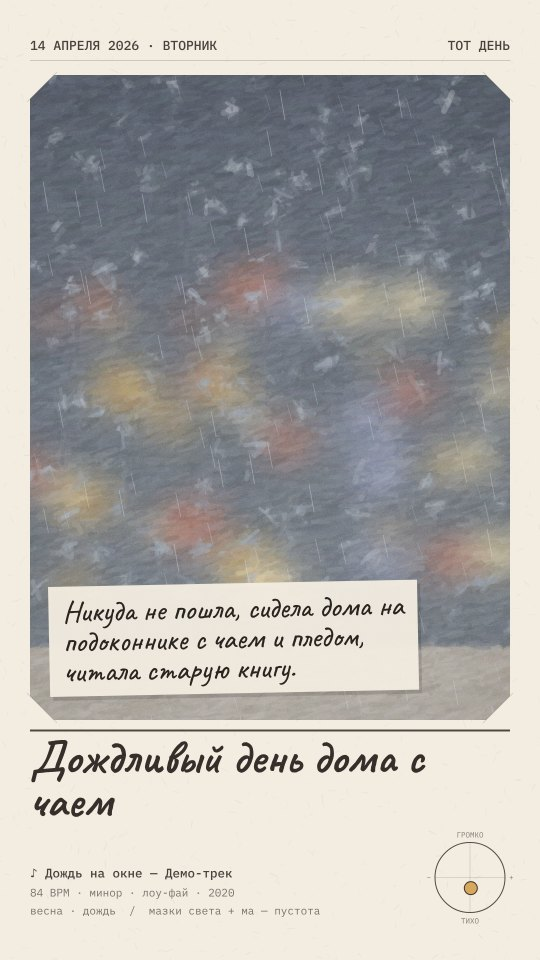
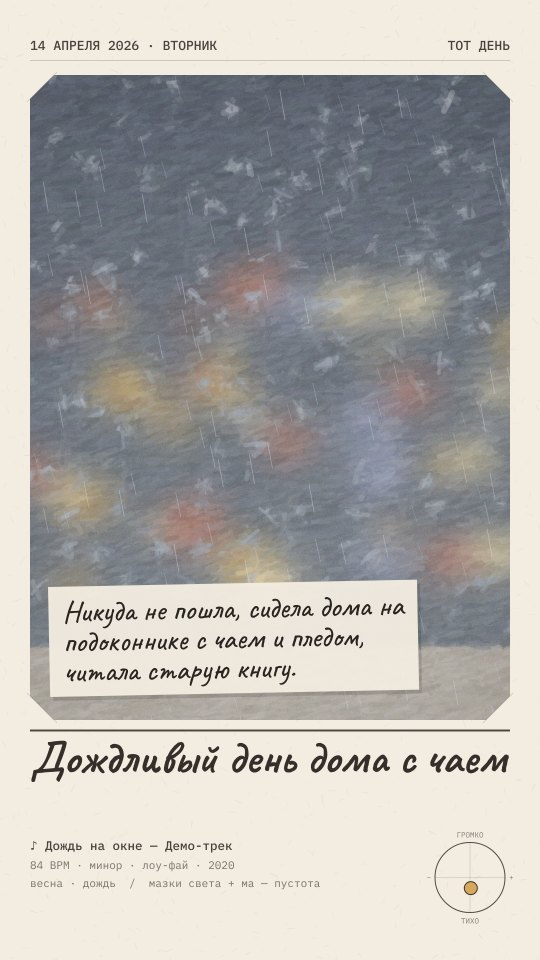
Название папки в одну строку: шрифт уменьшается вместо переноса
- название сначала уменьшается (92 → 66 px), чтобы поместиться в одну строку
- очень длинное (до 7 слов) — две строки того же размера в том же месте;
  однобуквенный предлог не остаётся в конце строки («…шаре / в Каппадокии»)
- строка песни под названием всегда на одной высоте, поэтому лента ровная
- лента и пример дождливого дня пересобраны

Claude-Session: https://claude.ai/code/session_01ExfuirR1niP3PWZ9iqYzHu

Changed region(s): [[0.0593, 0.75, 0.9481, 0.9688]]

diff --git a/js/render.js b/js/render.js
@@ -160,15 +160,34 @@
       g.textAlign = 'left';
       g.fillStyle = rgba(ink, 0.25); g.fillRect(60, 120, W - 120, 1.5);
       // folder title, handwritten, always in the same place
+      // One line whenever it fits: the title shrinks (92 → 66 px) rather than wraps.
+      // A very long title takes two smaller lines in the same space, so the
+      // song line below always stays in the same place on every page.
+      const fontAt = (px) => `700 ${px}px Caveat, cursive`;
       let size = 92;
-      g.font = `700 ${size}px Caveat, cursive`;
-      let lines = wrap(g, day.title, W - 120);
-      while (lines.length > 2 && size > 60) { size -= 6; g.font = `700 ${size}px Caveat, cursive`; lines = wrap(g, day.title, W - 120); }
+      g.font = fontAt(size);
+      while (g.measureText(day.title).width > W - 120 && size > 66) { size -= 2; g.font = fontAt(size); }
+      let lines = [day.title];
+      if (g.measureText(day.title).width > W - 120) {
+        // Two lines; a one-letter preposition never ends a line ("…шаре / в Каппадокии").
+        const wrapTitle = () => {
+          const ls = wrap(g, day.title, W - 120);
+          for (let i = 0; i < ls.length - 1; i++) {
+            const words = ls[i].split(' '), last = words[words.length - 1];
+            if (words.length > 1 && /^[а-яёa-z]{1,2}$/i.test(last)) { ls[i] = words.slice(0, -1).join(' '); ls[i + 1] = last + ' ' + ls[i + 1]; }
+          }
+          return ls;
+        };
+        size = 66; g.font = fontAt(size);
+        lines = wrapTitle();
+        while ((lines.length > 2 || lines.some((l) => g.measureText(l).width > W - 120)) && size > 40) { size -= 2; g.font = fontAt(size); lines = wrapTitle(); }
+      }
       g.fillStyle = rgba(ink, 0.95);
-      lines.slice(0, 2).forEach((l, i) => g.fillText(l, 60, 1545 + i * size * 0.95));
-      // song + day labels
+      const ty = lines.length > 1 ? 1532 : 1545;
+      lines.slice(0, 2).forEach((l, i) => g.fillText(l, 60, ty + i * size * 0.95));
+      // song + day labels: the same place on every page
       const m = day.music || {};
-      const y0 = lines.length > 1 ? 1755 : 1700;
+      const y0 = 1700;
       g.font = '500 25px "IBM Plex Mono", monospace';
       g.fillStyle = rgba(ink, 0.85);
       const song = [day.song && day.song.title, day.song && day.song.artist].filter(Boolean).join(' — ') || 'песня дня';
